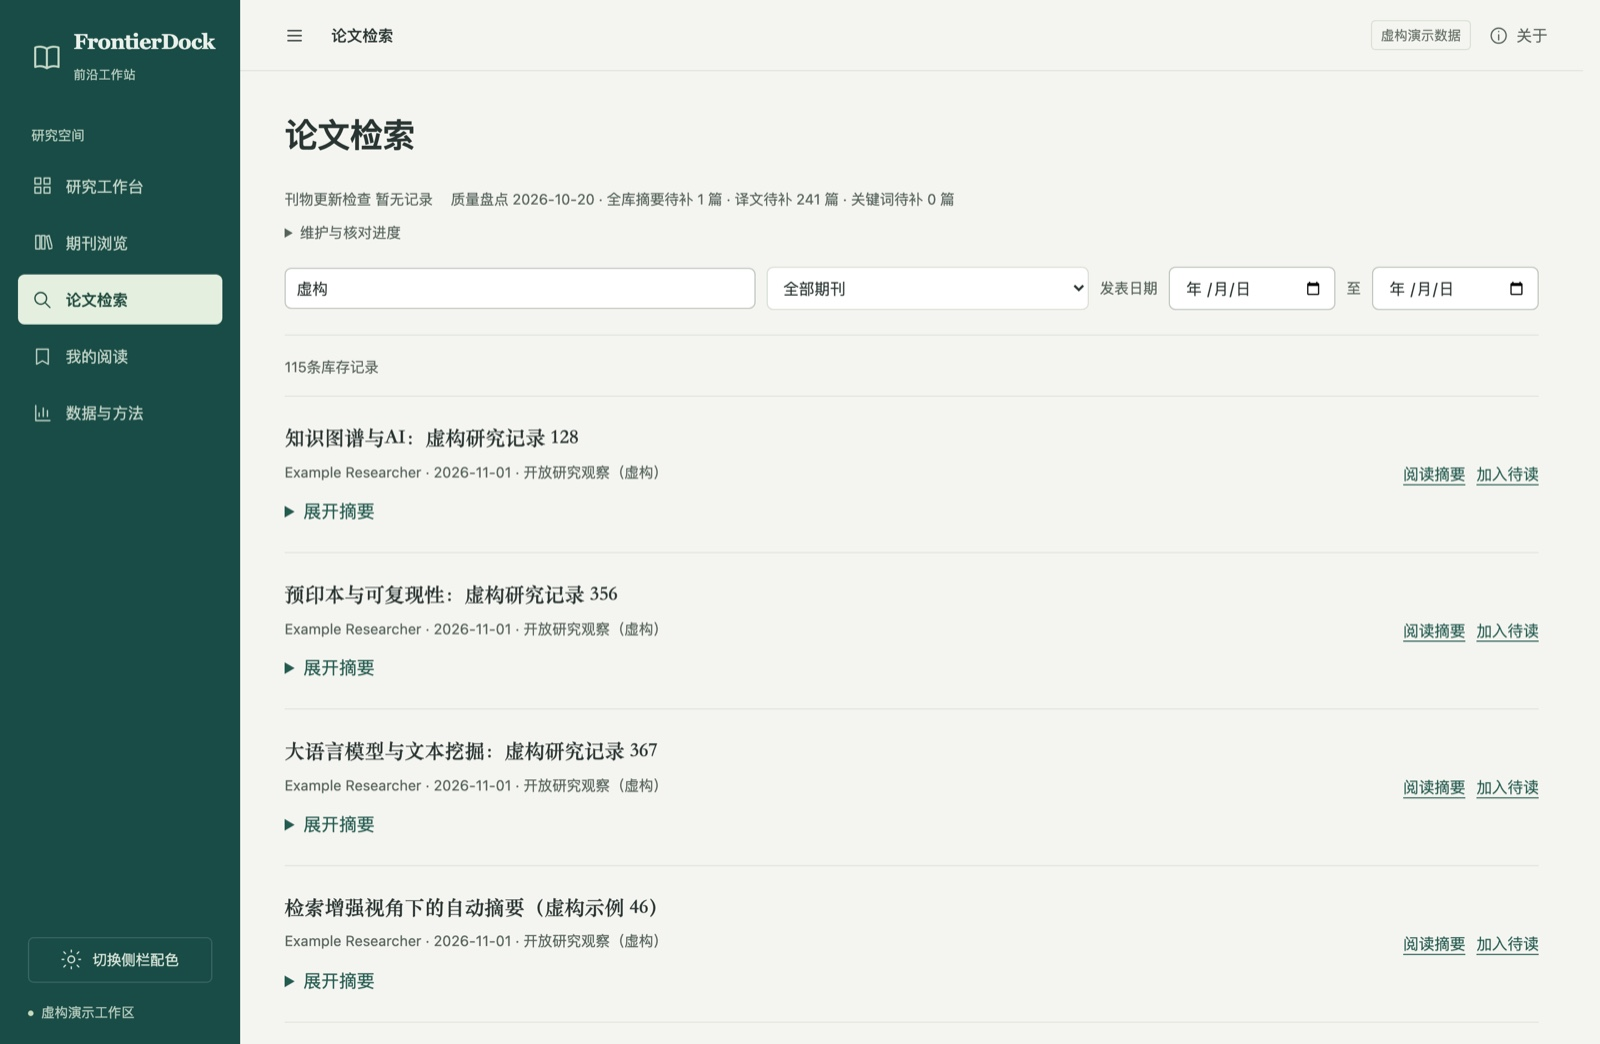
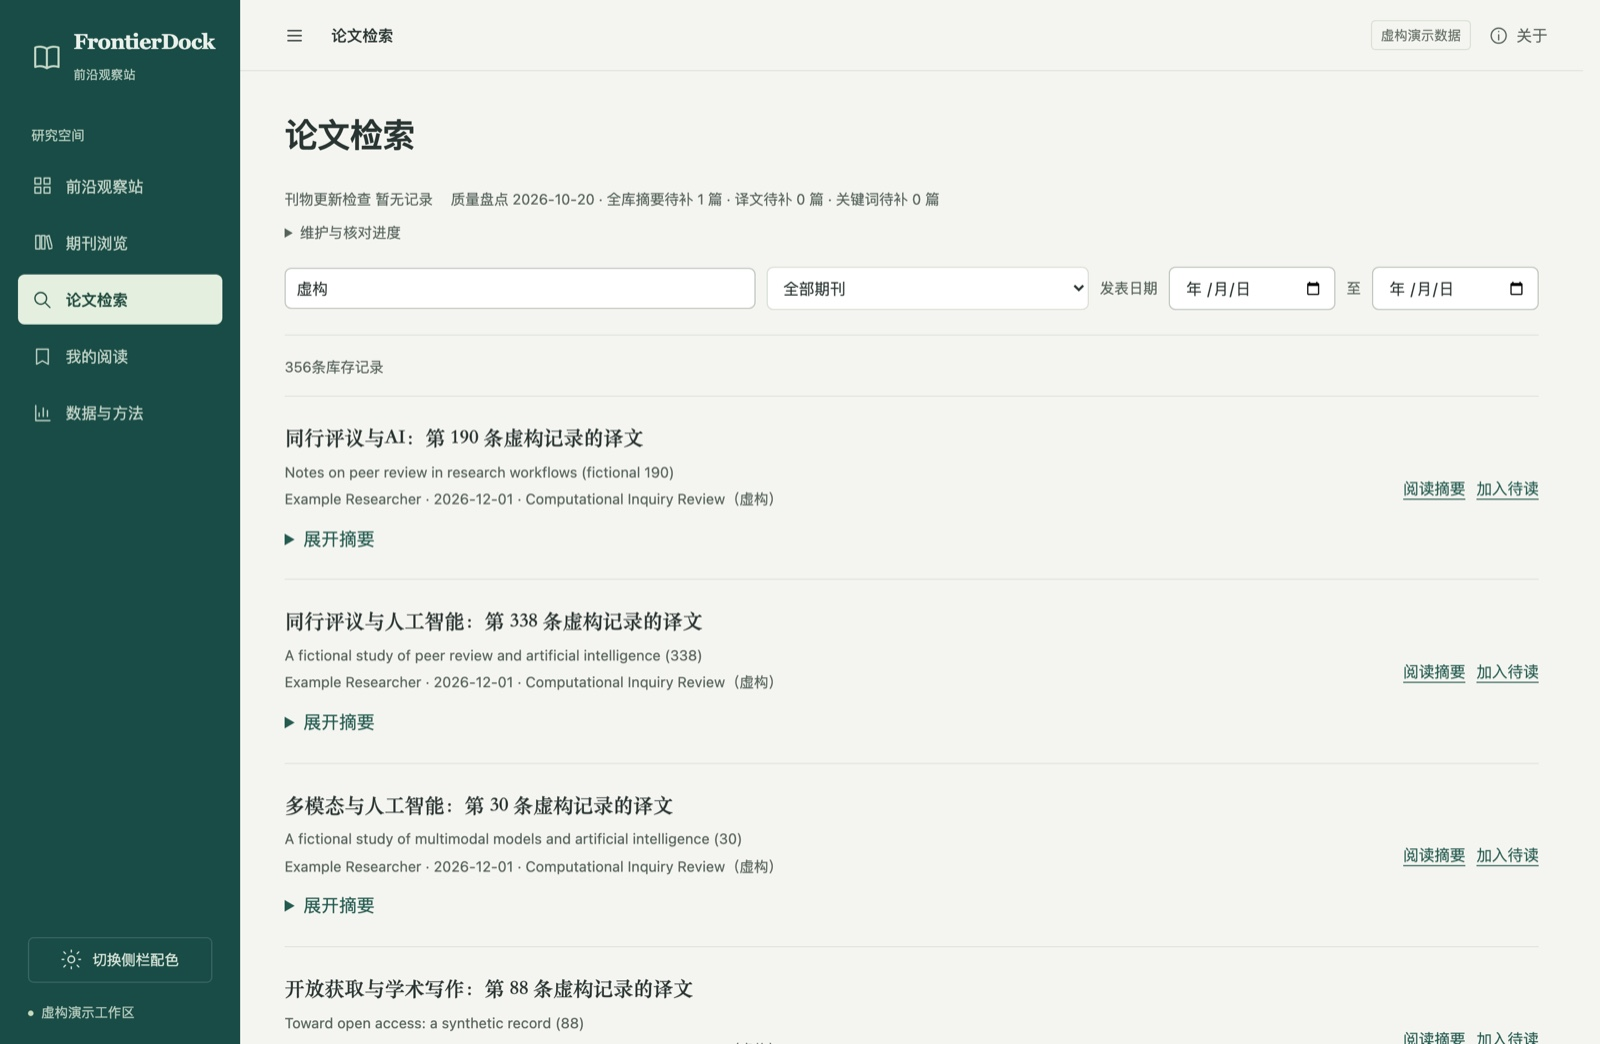
Rename the Chinese product to 前沿观察站 and finish the demo translations
- 前沿工作站 / 研究工作台 become 前沿观察站 in the UI, page titles, README
  and docs; no occurrence of 工作台 remains in the source
- demo corpus now carries a synthetic Chinese translation for every English
  record, so the maintenance badge reads "译文待补 0 篇" instead of a
  half-finished demo
- generated records keep their English titles; only the abstract is
  translated, which is what an English journal looks like after maintenance

diff --git a/web/components/p4-workspace.js b/web/components/p4-workspace.js
@@ -103,7 +103,7 @@ export async function renderLight(r,shell){
   if(selected)link.setAttribute('aria-current','page');else link.removeAttribute('aria-current');
  }
  const topLabel=document.querySelector('.top-label');
- const pageName=({workbench:'研究工作台',journals:'期刊浏览',search:'论文检索',reading:'我的阅读',data:'数据与方法',reader:'论文摘要'})[r.page];
+ const pageName=({workbench:'前沿观察站',journals:'期刊浏览',search:'论文检索',reading:'我的阅读',data:'数据与方法',reader:'论文摘要'})[r.page];
  if(topLabel&&pageName)topLabel.textContent=pageName;
  try{
   const journal=r.query.get('journal')||'',overview=r.page==='journals'&&!journal;
@@ -150,7 +150,7 @@ export async function renderLight(r,shell){
    const data=pageData;if(request!==epoch||hash!==location.hash)return;
    const m=data.metadata,reading=data.reading,origin=originFor(sessionStorage,r.id),theme=prefs().lightTheme||'rice';
    const source=safeLink(m.source_url),doi=m.doi?safeLink('https://doi.org/'+m.doi):'';
-   paint(`<section class="page p3-record p4-record"><a class="text-btn" href="${E(origin.hash)}" data-light-return="${E(r.id)}">← ${origin.hash.startsWith('#/journals')?'返回期刊目录':origin.hash.startsWith('#/search')?'返回检索结果':origin.hash.startsWith('#/workbench')?'返回工作台':'返回我的阅读'}</a><article class="reader p4-abstract" data-theme="${['rice','night','white'].includes(theme)?theme:'rice'}"><p class="muted">${E(m.journal||'个人文献')}${m.scope_label?' · '+E(m.scope_label):''}${m.publication_date?' · '+E(m.publication_date):''}</p><h1 class="serif">${E(title(m))}</h1>${m.translated_title?`<p class="p4-english-title" lang="en">${E(m.title)}</p>`:''}<p>${E(author(m))}</p><div class="p3-actions">${source&&source!==doi?`<a class="text-btn" href="${E(source)}" target="_blank" rel="noopener">原文来源 ↗</a>`:''}${doi?`<a class="text-btn" href="${E(doi)}" title="DOI: ${E(m.doi)}" target="_blank" rel="noopener">查看原文 ↗</a>`:''}${stateSelect(r.id,reading)}${reading.in_library&&!reading.removed?'<span class="muted">已在我的阅读</span>':reading.removed?`<button class="text-btn" data-light-restore="${E(r.id)}" data-revision="${reading.visibility_revision}">重新加入我的阅读</button>`:''}<label class="p4-theme">阅读主题 <select id="p4-theme">${[['rice','米纸'],['white','清白'],['night','夜读']].map(([k,v])=>`<option value="${k}" ${theme===k?'selected':''}>${v}</option>`).join('')}</select></label></div><section class="reader-summary"><h2>摘要</h2>${abstractContent(m)}</section>${historyDetails(reading)}</article></section>`,'reader');currentRecord=data;return;
+   paint(`<section class="page p3-record p4-record"><a class="text-btn" href="${E(origin.hash)}" data-light-return="${E(r.id)}">← ${origin.hash.startsWith('#/journals')?'返回期刊目录':origin.hash.startsWith('#/search')?'返回检索结果':origin.hash.startsWith('#/workbench')?'返回前沿观察站':'返回我的阅读'}</a><article class="reader p4-abstract" data-theme="${['rice','night','white'].includes(theme)?theme:'rice'}"><p class="muted">${E(m.journal||'个人文献')}${m.scope_label?' · '+E(m.scope_label):''}${m.publication_date?' · '+E(m.publication_date):''}</p><h1 class="serif">${E(title(m))}</h1>${m.translated_title?`<p class="p4-english-title" lang="en">${E(m.title)}</p>`:''}<p>${E(author(m))}</p><div class="p3-actions">${source&&source!==doi?`<a class="text-btn" href="${E(source)}" target="_blank" rel="noopener">原文来源 ↗</a>`:''}${doi?`<a class="text-btn" href="${E(doi)}" title="DOI: ${E(m.doi)}" target="_blank" rel="noopener">查看原文 ↗</a>`:''}${stateSelect(r.id,reading)}${reading.in_library&&!reading.removed?'<span class="muted">已在我的阅读</span>':reading.removed?`<button class="text-btn" data-light-restore="${E(r.id)}" data-revision="${reading.visibility_revision}">重新加入我的阅读</button>`:''}<label class="p4-theme">阅读主题 <select id="p4-theme">${[['rice','米纸'],['white','清白'],['night','夜读']].map(([k,v])=>`<option value="${k}" ${theme===k?'selected':''}>${v}</option>`).join('')}</select></label></div><section class="reader-summary"><h2>摘要</h2>${abstractContent(m)}</section>${historyDetails(reading)}</article></section>`,'reader');currentRecord=data;return;
   }
   if(r.page==='reading'){
    const q=r.query.get('q')||'',old=r.query.get('state')||r.query.get('tab')||'all',state=({in_progress:'to_read',saved:'to_read'})[old]||(['unread','to_read','completed'].includes(old)?old:'all');
@@ -161,7 +161,7 @@ export async function renderLight(r,shell){
   if(r.page==='workbench'){
    const [reading,groups]=pageData,latest=recentPapers(groups),failed=groups.some(g=>g.unavailable);
    previewRecords.clear();for(const m of latest)previewRecords.set(m.record_id,m);
-   paint(`<section class="page p4-workbench">${head('研究工作台')}<div class="p4-home-grid"><section class="p4-discovery"><div class="p4-section-head"><h2>期刊近期论文</h2><a class="text-btn" href="#/journals">浏览期刊</a></div><p class="p4-section-caption">各刊先展示一篇，按发表日期排列</p>${failed?'<p class="p4-inline-error" role="status">部分题录暂时无法读取，可稍后重新打开。</p>':''}<div class="plain-list">${latest.map(m=>`<article class="p3-doc" data-record="${E(m.record_id)}"><div><p class="p4-paper-meta">${E(m.journal)} · ${E(m.publication_date||'日期待核')}</p><h3><a href="${paperHref(m.record_id)}">${E(title(m))}</a></h3>${m.translated_title?`<p class="p4-english-title" lang="en">${E(m.title)}</p>`:''}<p class="p4-paper-meta">${E(author(m))}</p></div><div class="p3-doc-actions">${m.reading?.in_library&&!m.reading?.removed?`<span class="p4-saved-label">${E(readingNames[m.reading.status]||'已在我的阅读')}</span>`:`<button class="text-btn" data-light-save="${E(m.record_id)}">加入待读</button>`}</div></article>`).join('')||'<p class="section-note">暂时没有可显示的期刊论文。</p>'}</div></section><aside class="p4-home-reading"><div class="p4-section-head"><h2>我的待读</h2><span>${reading.items.length} 篇</span></div><div class="plain-list">${reading.items.slice(0,4).map(({metadata:m})=>`<article class="p4-reading-pick"><h3><a href="${paperHref(m.record_id)}">${E(title(m))}</a></h3><p>${E(author(m))}</p></article>`).join('')||'<p class="section-note">找到想读的论文后，加入待读。</p>'}</div><a class="text-btn" href="#/reading?state=to_read">查看全部待读</a></aside></div></section>`,'workbench');return;
+   paint(`<section class="page p4-workbench">${head('前沿观察站')}<div class="p4-home-grid"><section class="p4-discovery"><div class="p4-section-head"><h2>期刊近期论文</h2><a class="text-btn" href="#/journals">浏览期刊</a></div><p class="p4-section-caption">各刊先展示一篇，按发表日期排列</p>${failed?'<p class="p4-inline-error" role="status">部分题录暂时无法读取，可稍后重新打开。</p>':''}<div class="plain-list">${latest.map(m=>`<article class="p3-doc" data-record="${E(m.record_id)}"><div><p class="p4-paper-meta">${E(m.journal)} · ${E(m.publication_date||'日期待核')}</p><h3><a href="${paperHref(m.record_id)}">${E(title(m))}</a></h3>${m.translated_title?`<p class="p4-english-title" lang="en">${E(m.title)}</p>`:''}<p class="p4-paper-meta">${E(author(m))}</p></div><div class="p3-doc-actions">${m.reading?.in_library&&!m.reading?.removed?`<span class="p4-saved-label">${E(readingNames[m.reading.status]||'已在我的阅读')}</span>`:`<button class="text-btn" data-light-save="${E(m.record_id)}">加入待读</button>`}</div></article>`).join('')||'<p class="section-note">暂时没有可显示的期刊论文。</p>'}</div></section><aside class="p4-home-reading"><div class="p4-section-head"><h2>我的待读</h2><span>${reading.items.length} 篇</span></div><div class="plain-list">${reading.items.slice(0,4).map(({metadata:m})=>`<article class="p4-reading-pick"><h3><a href="${paperHref(m.record_id)}">${E(title(m))}</a></h3><p>${E(author(m))}</p></article>`).join('')||'<p class="section-note">找到想读的论文后，加入待读。</p>'}</div><a class="text-btn" href="#/reading?state=to_read">查看全部待读</a></aside></div></section>`,'workbench');return;
   }
   if(r.page==='topics'){
    paint(`<section class="page">${head('研究专题已暂时停用')}<a class="text-btn" href="#/journals">前往期刊浏览</a></section>`,'journals');return;

diff --git a/web/app.js b/web/app.js
@@ -2,8 +2,8 @@ import {renderLight} from './components/p4-workspace.js';
 import {patchPage} from './components/p4-view.js';
 import {icon} from './components/icons.js';
 import {prefs,savePrefs} from './store.js';
-const labels={workbench:'研究工作台',journals:'期刊浏览',search:'论文检索',reading:'我的阅读',data:'数据与方法'};
-document.getElementById('app').innerHTML=`<aside class="sidebar"><a href="#/workbench" class="brand"><span class="brand-mark">${icon('book',28)}</span><div class="brand-copy"><div class="brand-name" style="font-size:19px;letter-spacing:-.5px">FrontierDock</div><div class="brand-sub">前沿工作站</div></div></a><div class="nav-caption">研究空间</div><nav class="nav" aria-label="主要导航">${Object.entries(labels).map(([k,v])=>`<a href="#/${k}">${icon(k==='workbench'?'home':k)}<span class="nav-label">${v}</span></a>`).join('')}</nav><div class="nav-foot"><button class="nav-theme" data-action="nav-theme">${icon('sun')}<span>切换侧栏配色</span></button><div class="environment"><i></i><span>本地工作区</span></div></div></aside><div class="app-area"><header class="topbar"><div class="top-left"><button class="icon-btn" data-action="nav-toggle" aria-label="折叠侧栏">${icon('menu')}</button><span class="top-label">研究工作台</span></div><div class="top-right"><span class="prototype-label"></span><button class="text-btn" data-action="help">${icon('info')} 关于</button></div></header><main id="main" tabindex="-1"></main></div>`;
+const labels={workbench:'前沿观察站',journals:'期刊浏览',search:'论文检索',reading:'我的阅读',data:'数据与方法'};
+document.getElementById('app').innerHTML=`<aside class="sidebar"><a href="#/workbench" class="brand"><span class="brand-mark">${icon('book',28)}</span><div class="brand-copy"><div class="brand-name" style="font-size:19px;letter-spacing:-.5px">FrontierDock</div><div class="brand-sub">前沿观察站</div></div></a><div class="nav-caption">研究空间</div><nav class="nav" aria-label="主要导航">${Object.entries(labels).map(([k,v])=>`<a href="#/${k}">${icon(k==='workbench'?'home':k)}<span class="nav-label">${v}</span></a>`).join('')}</nav><div class="nav-foot"><button class="nav-theme" data-action="nav-theme">${icon('sun')}<span>切换侧栏配色</span></button><div class="environment"><i></i><span>本地工作区</span></div></div></aside><div class="app-area"><header class="topbar"><div class="top-left"><button class="icon-btn" data-action="nav-toggle" aria-label="折叠侧栏">${icon('menu')}</button><span class="top-label">前沿观察站</span></div><div class="top-right"><span class="prototype-label"></span><button class="text-btn" data-action="help">${icon('info')} 关于</button></div></header><main id="main" tabindex="-1"></main></div>`;
 if(prefs().navLight)document.body.classList.add('nav-light');
 if(prefs().navCollapsed)document.body.classList.add('nav-collapsed');
 function route(){const text=location.hash.slice(2)||'workbench',[path,query='']=text.split('?');const [page,...rest]=path.split('/');return {page,id:decodeURIComponent(rest.join('/')),query:new URLSearchParams(query)}}

diff --git a/web/index.html b/web/index.html
@@ -1,3 +1,3 @@
 <!doctype html>
-<html lang="zh-CN"><head><meta charset="utf-8"><meta name="viewport" content="width=device-width,initial-scale=1"><meta name="description" content="FrontierDock — Build your own research frontier."><title>FrontierDock — 前沿工作站</title><link rel="icon" href="icon.svg" type="image/svg+xml"><link rel="stylesheet" href="styles.css"><link rel="stylesheet" href="p4-light.css"><link rel="stylesheet" href="vendor/katex/katex.min.css"><script src="runtime.js"></script><script type="module" src="app.js"></script></head>
+<html lang="zh-CN"><head><meta charset="utf-8"><meta name="viewport" content="width=device-width,initial-scale=1"><meta name="description" content="FrontierDock — Build your own research frontier."><title>FrontierDock — 前沿观察站</title><link rel="icon" href="icon.svg" type="image/svg+xml"><link rel="stylesheet" href="styles.css"><link rel="stylesheet" href="p4-light.css"><link rel="stylesheet" href="vendor/katex/katex.min.css"><script src="runtime.js"></script><script type="module" src="app.js"></script></head>
 <body><a class="skip" href="#main">跳到正文</a><div id="app"></div><div id="toast" role="status" aria-live="polite"></div><dialog id="about"><div class="dialog-head"><h2>FrontierDock</h2><button class="btn" data-action="close-help">关闭 ×</button></div><p>Build your own research frontier.</p><p>自托管研究情报平台。由你选择研究领域、期刊、检索方式、翻译模型与更新节奏。遇到配置或运行问题，可以请自己的 Agent 协助诊断。</p><p>期刊目录展示实际库存，缺期和空摘要是待核线索。搜索网页摘要不等于作者原始 Abstract；模型翻译与关键词保留来源记录。</p><p>当前页面只连接本地独立工作区。默认没有云端遥测，也不会在浏览器存放 API 密钥。</p></dialog></body></html>

diff --git a/web/p4-light.css b/web/p4-light.css
@@ -157,7 +157,7 @@
 .p4-issue-card strong{font-size:18px}.p4-issue-card small{line-height:1.6}.card-latest strong{white-space:normal;line-height:1.65}
 @media(max-width:600px){.p4-issue-grid{grid-template-columns:1fr}}
 
-/* 数据页：沿用工作台纸色、深绿与细线。图表用直接标签保留可读数值。 */
+/* 数据页：沿用观察站纸色、深绿与细线。图表用直接标签保留可读数值。 */
 .p4-analytics{max-width:1320px}.p4-stat-eyebrow{font-size:11px!important;letter-spacing:.19em;color:var(--muted);margin:0 0 12px!important}.p4-analytics .page-head{align-items:end;gap:24px}.p4-analytics .page-head h1{margin-bottom:12px}
 .p4-stat-filters{display:flex;gap:12px;flex-shrink:0}.p4-stat-filters label{display:grid;gap:7px;font-size:12px;color:var(--muted)}.p4-stat-filters select{min-height:44px;min-width:120px;border:1px solid var(--line);border-radius:8px;background:var(--paper);color:var(--ink);padding:8px 12px;font:inherit;font-size:14px}
 .p4-stat-metrics{display:grid;grid-template-columns:repeat(4,minmax(0,1fr));border-top:1px solid var(--line);border-bottom:1px solid var(--line);margin:28px 0 32px;padding:24px 0}.p4-stat-metric{padding:0 24px;border-right:1px solid var(--line);display:grid;gap:8px}.p4-stat-metric:first-child{padding-left:0}.p4-stat-metric:last-child{border:0}.p4-stat-metric>span{font-size:14px;color:var(--muted)}.p4-stat-metric strong{font-size:38px;line-height:1.2;font-weight:500;font-variant-numeric:tabular-nums;letter-spacing:-.03em}.p4-stat-metric small{font-size:12px;color:var(--muted);line-height:1.7}

diff --git a/web/components/p4-view.js b/web/components/p4-view.js
@@ -1,4 +1,4 @@
-/* 轻量工作台的纯数据规则与局部绘制，不包含网络或持久化副作用。 */
+/* 轻量观察站的纯数据规则与局部绘制，不包含网络或持久化副作用。 */
 export function readingSubset(items,{q='',state='all'}={}){
  const needle=q.trim().toLocaleLowerCase();
  return items.filter(({metadata:m,reading:r})=>(state==='all'||r.status===state||r.history_conflict)&&(!needle||[m.title,m.translated_title,(m.authors||[]).map(a=>typeof a==='string'?a:a?.name||'').join(' '),m.doi].join(' ').toLocaleLowerCase().includes(needle)));

diff --git a/frontierdock/core.py b/frontierdock/core.py
@@ -1,4 +1,4 @@
-"""独立工作区、来源记录和字段维护；不读取任何外部工作台。"""
+"""独立工作区、来源记录和字段维护；不读取任何外部观察站。"""
 from pathlib import Path
 from contextlib import contextmanager,closing
 from datetime import datetime,date,timezone
@@ -218,10 +218,13 @@ def demo_corpus(count=400):
   if j in (0,2):
    title=rng.choice([f'A fictional study of {en[0]} and {en[1]} ({n})',f'Notes on {en[0]} in research workflows (fictional {n})',f'Toward {en[0]}: a synthetic record ({n})'])
    abstract=f'Fictional entry {n} on {en[0]}. The abstract is generated from a fixed template so that this demo can show how a stored original abstract, a translation and extracted keywords relate to each other. It describes no real study and must not be cited.'
+   row={'tr':f'这条合成摘要围绕{picked[0]}与{picked[1]}展开，用来演示译文与原摘要的对应关系。内容完全虚构，不对应任何真实研究，不能用于引用。'}
   else:
    title=rng.choice([f'{picked[0]}与{picked[1]}：虚构研究记录 {n}',f'{picked[0]}视角下的{picked[1]}（虚构示例 {n}）',f'关于{picked[0]}的合成实验笔记 {n}'])
    abstract=f'这是第 {n} 条虚构题录，主题围绕{picked[0]}与{picked[1]}。摘要由固定模板生成，用来演示原摘要、译文与关键词之间的关系，不对应任何真实研究，不能用于引用。'
-  rows.append({'j':j,'year':year,'month':month,'volume':year-2023,'issue':issue,'title':title,'abstract':abstract,'keywords':picked})
+   row={}
+  row.update({'j':j,'year':year,'month':month,'volume':year-2023,'issue':issue,'title':title,'abstract':abstract,'keywords':picked})
+  rows.append(row)
  return rows
 
 DEMO_RECORDS=[
@@ -260,7 +263,8 @@ def initialize(path,demo=False):
   for i,d in enumerate(rows):
    if not d.get('abstract'):continue
    value={'record_id':f'demo:{i}','source_hash':hashes[f'demo:{i}'],'model_keywords':d['keywords'],'provider':'synthetic-demo','model':'fictional-example'}
-   if d.get('tr'):value.update(translated_title=d['tt'],abstract_translation=d['tr'])
+   if d.get('tr'):value.update(abstract_translation=d['tr'])
+   if d.get('tt'):value.update(translated_title=d['tt'])
    enrich.append(value)
   w.enrich(enrich)
  return w

diff --git a/README.md b/README.md
@@ -1,8 +1,8 @@
 <div align="center">
 
-<img src="docs/images/hero.jpg" width="880" alt="FrontierDock 前沿工作站">
+<img src="docs/images/hero.jpg" width="880" alt="FrontierDock 前沿观察站">
 
-# FrontierDock · 前沿工作站
+# FrontierDock · 前沿观察站
 
 **Build your own research frontier.**
 
@@ -31,7 +31,7 @@ An open-source, self-hosted research intelligence platform.
 把下面这段直接发给你常用的 Agent。能读写本地文件的都会做，不挑平台。
 
 ```text
-帮我装一个本地文献工作台：https://github.com/wujing855/FrontierDock
+帮我装一个前沿观察站（FrontierDock）：https://github.com/wujing855/FrontierDock
 
 请先读仓库里的 skills/frontierdock-setup/SKILL.md，按它的流程陪我配置：
 先问我关注什么领域、平时怎么读文献，给出一批可以跳过、以后能改的选项，装完逐项验证再交给我。
@@ -61,9 +61,9 @@ python3 -m frontierdock init --workspace my-research
 
 截图取自 `--demo` 工作区，期刊、论文、关键词全部虚构。
 
-<img src="docs/images/01-workbench.jpg" width="880" alt="研究工作台：各刊近期论文、我的待读">
+<img src="docs/images/01-workbench.jpg" width="880" alt="前沿观察站：各刊近期论文、我的待读">
 
-**研究工作台**：每本刊先露一篇，右侧是待读清单，点标题直接进摘要页。
+**前沿观察站**：每本刊先露一篇，右侧是待读清单，点标题直接进摘要页。
 
 <img src="docs/images/02-journals.jpg" width="880" alt="期刊浏览：期刊卡片、收录区间、卷期数">
 
@@ -93,7 +93,7 @@ python3 -m frontierdock init --workspace my-research
 
 | 页面 | 内容 |
 |---|---|
-| 研究工作台 | 各刊近期论文一屏聚合，直接加入待读 |
+| 前沿观察站 | 各刊近期论文一屏聚合，直接加入待读 |
 | 期刊浏览 | 期刊卡片、卷期目录、当期题录，收录缺口如实显示 |
 | 论文检索 | 题名、DOI、作者、期刊与日期筛选 |
 | 摘要阅读 | 原摘要、译文、来源链接、提取关键词、阅读主题 |

diff --git a/skills/frontierdock-setup/SKILL.md b/skills/frontierdock-setup/SKILL.md
@@ -23,7 +23,7 @@ Ask a small group of relevant questions, then make useful progress. Do not overw
 
 Most people using this will not be familiar with schedulers, cron or APIs. After the first successful run, offer a simple routine instead of a technical description: twice a day, at two fixed times, you look for new issues and check that the workbench itself is healthy.
 
-Ask rather than assume, and phrase it in everyday words. For example: "要不要我每天早晚各看一次？早上 9 点看看有没有新一期，晚上 9 点再补一次，顺便查一下工作台有没有出毛病。" Accept whatever they choose, including once a day, weekly, or manual only.
+Ask rather than assume, and phrase it in everyday words. For example: "要不要我每天早晚各看一次？早上 9 点看看有没有新一期，晚上 9 点再补一次，顺便查一下观察站有没有出毛病。" Accept whatever they choose, including once a day, weekly, or manual only.
 
 What one check-up does:
 
